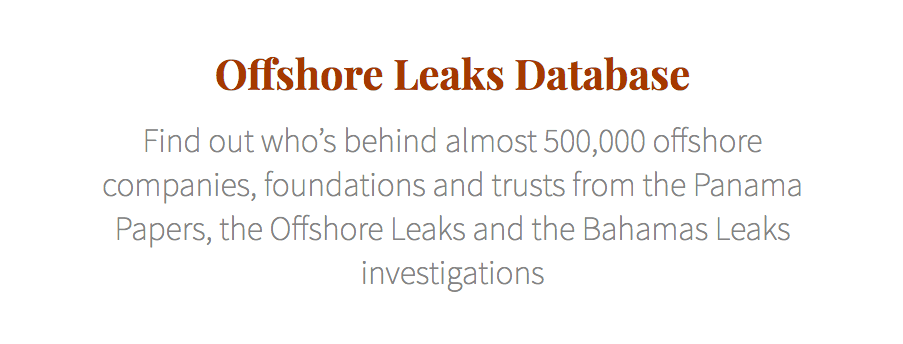
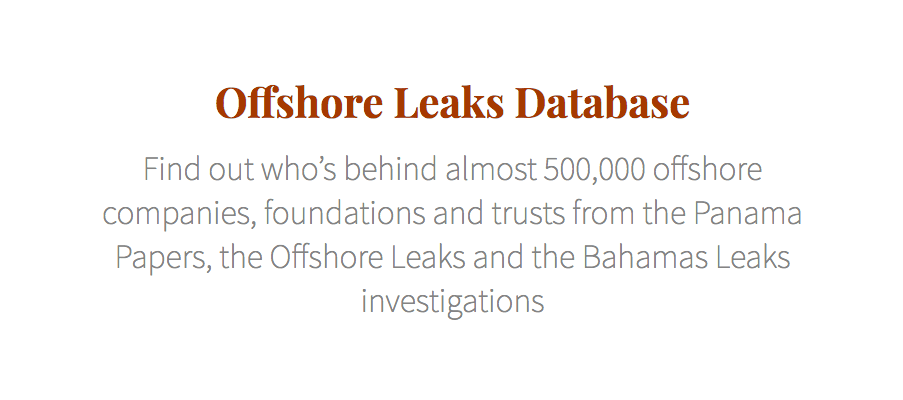
Reorder project gallery

diff --git a/_includes/projects.html b/_includes/projects.html
@@ -2,20 +2,36 @@
 
 <div class="project-gallery">
   {% for project in site.data.projects %}
-  <a class="popup-with-zoom-anim project" href="#{{project.name | slugify}}">
-    {% img '{{project.img}}' class:'project-teaser pure-img' alt:'{{project.name}}' %}
+  <a class="popup-with-zoom-anim project w{% cycle 1, 2, 3, 4 %}" href="#{{project.name | slugify}}">
+    <div style="background-image: url('{% asset_path {{project.img}} %}')" class="project-teaser pure-img ">
+      <span class="project-hover">
+        <div class="hover-content">
+          <div class="hover-name">{{project.name}}</div>
+          <div class="hover-client">{{project.client}}</div>
+        </div>
+      </span>
+    </div>
   </a>
+  {% endfor %}
   
+  {% for project in site.data.projects %}
   <div id="{{project.name | slugify}}" class="zoom-anim-dialog mfp-hide dialog">
-    <div style="background-image: url('{% asset_path {{project.img}} %}')" class="project-popup-img pure-img"></div>
     
-    <div class="project-description">
-      <h1 class="project-name">{{project.name}}</h1>
-      <small class="project-client">Client: <a class="client-url no-underline" href="{{project.client_url}}">{{project.client}}</a></small>
-      
-      <p class="project-text">{{project.description}}</p>
-      
-      <a class="pure-button project-button" href="{{project.url}}">Go to project</a>
+    <div class="pure-g">
+      <div class="pure-u-1 pure-u-md-1-2">
+        <img src="{% asset_path {{project.screen_1}} %}" class="project-popup-img pure-img">
+        <img src="{% asset_path {{project.screen_2}} %}" class="project-popup-img pure-img">
+      </div>
+      <div class="pure-u-1 pure-u-md-1-2">
+        <div class="project-description">
+          <h1 class="project-name">{{project.name}}</h1>
+          <small class="project-client">Client: <a class="client-url no-underline" href="{{project.client_url}}">{{project.client}}</a></small>
+          
+          <p class="project-text">{{project.description}}</p>
+          
+          <a class="pure-button project-button" href="{{project.url}}">Go to project</a>
+        </div>
+      </div>
     </div>
   </div>
   {% endfor %}

diff --git a/_assets/css/_projects.scss b/_assets/css/_projects.scss
@@ -1,11 +1,58 @@
-.project-gallery {
-  font-size: 0;
+.project-teaser {
+  background-size: cover;
+  background-position: center center;
+  background-repeat: no-repeat;
+  height: 100%;
+  transition: color .15s ease-in;
 }
-.project {
+.project-teaser:hover .project-hover {
+  opacity: 1;
+}
+.project-hover {
+  text-align: center;
+  opacity: 0;
+  color: white;
+  vertical-align: middle;
+  background-color: rgba(0,0,0,.6);
   width: 100%;
-  
+  height: 100%;
+  -webkit-transition: opacity .15s ease-in;
+  transition: opacity .15s ease-in;
+  position: absolute;
+}
+.hover-content {
+  padding-top: 8vh;
+}
+.hover-name {
+  font-family: $sans-headline;
+  font-size: $f2;
+  font-weight: 600;
+}
+.w1,
+.w2,
+.w3,
+.w4 {
+  height: 300px;
+  width: 100%;
+}
+.w1 {
   @include min-screen(768) {
-    width: 50%;
+    width: calc(50% - 2.5px);
+  }
+}
+.w2 {
+  @include min-screen(768) {
+    width: calc(50% - 2.5px);
+  }
+}
+.w3 {
+  @include min-screen(768) {
+    width: calc(70% - 2.5px);
+  }
+}
+.w4 {
+  @include min-screen(768) {
+    width: calc(30% - 2.5px);
   }
 }
 
@@ -13,9 +60,13 @@
 .dialog {
 	background: white;
 	text-align: left;
-	max-width: 960px;
+	max-width: 1200px;
 	margin: 40px auto;
 	position: relative;
+  
+  @include min-screen(1600) {
+    max-width: 1440px;
+  }
 }
 .project-name {
   margin-bottom: 0.5rem;
@@ -28,10 +79,8 @@
   letter-spacing: 2px;
   color: $gray;
   display: block;
+  line-height: 1.5;
   margin-bottom: 0.5rem;
-}
-.project-popup-img {
-  margin: 0 auto;
 }
 .project-text {
   margin-top: 0;
@@ -50,8 +99,11 @@
   background-image: none;
 }
 .project-popup-img {
+  margin: 0 auto;
   width: 100%;
-  height: 30vh;
-  background: #222 no-repeat center center;
+  height: auto;
+  margin-bottom: 0.5rem;
+  padding-bottom: 0.5rem;
+  border-bottom: 1px solid #ccc;
   background-size: cover;
 }

diff --git a/_assets/js/main.js b/_assets/js/main.js
@@ -51,7 +51,7 @@ $(document).ready(function() {
 		type: 'inline',
     delegate: '.project',
 
-		fixedContentPos: false,
+		fixedContentPos: 'auto',
 		fixedBgPos: true,
 
 		overflowY: 'auto',
@@ -72,7 +72,7 @@ $(document).ready(function() {
     $grid.packery({
       // options
       itemSelector: '.project',
-      gutter: 0,
+      gutter: 5,
       percentPosition: true
     });
   });

diff --git a/_assets/css/_header.scss b/_assets/css/_header.scss
@@ -5,7 +5,7 @@
   padding: 2rem 0;
   
   @include min-screen(768) {
-    padding: 2rem 4rem;
+    padding: 4rem 4rem 2rem 4rem;
   }
   
   @include min-screen(1600) {
